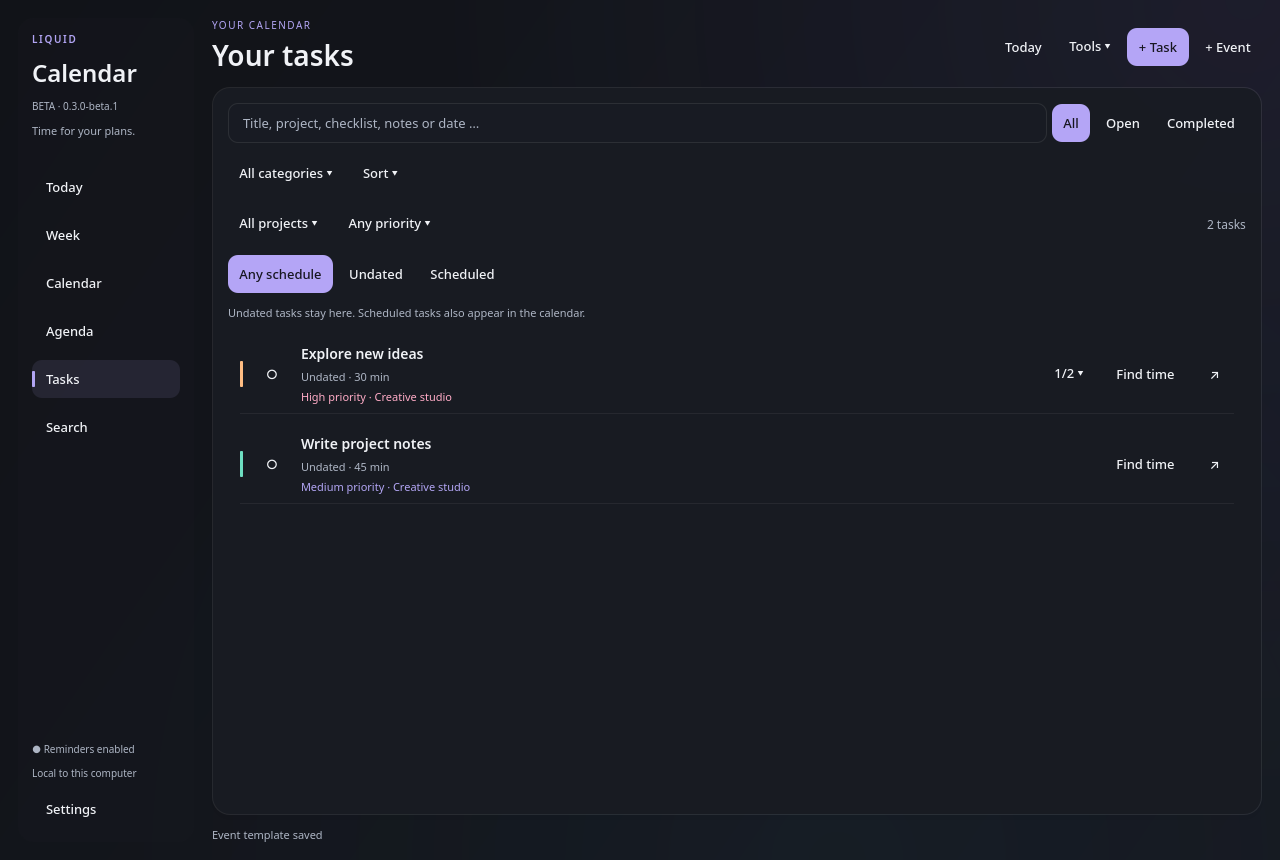
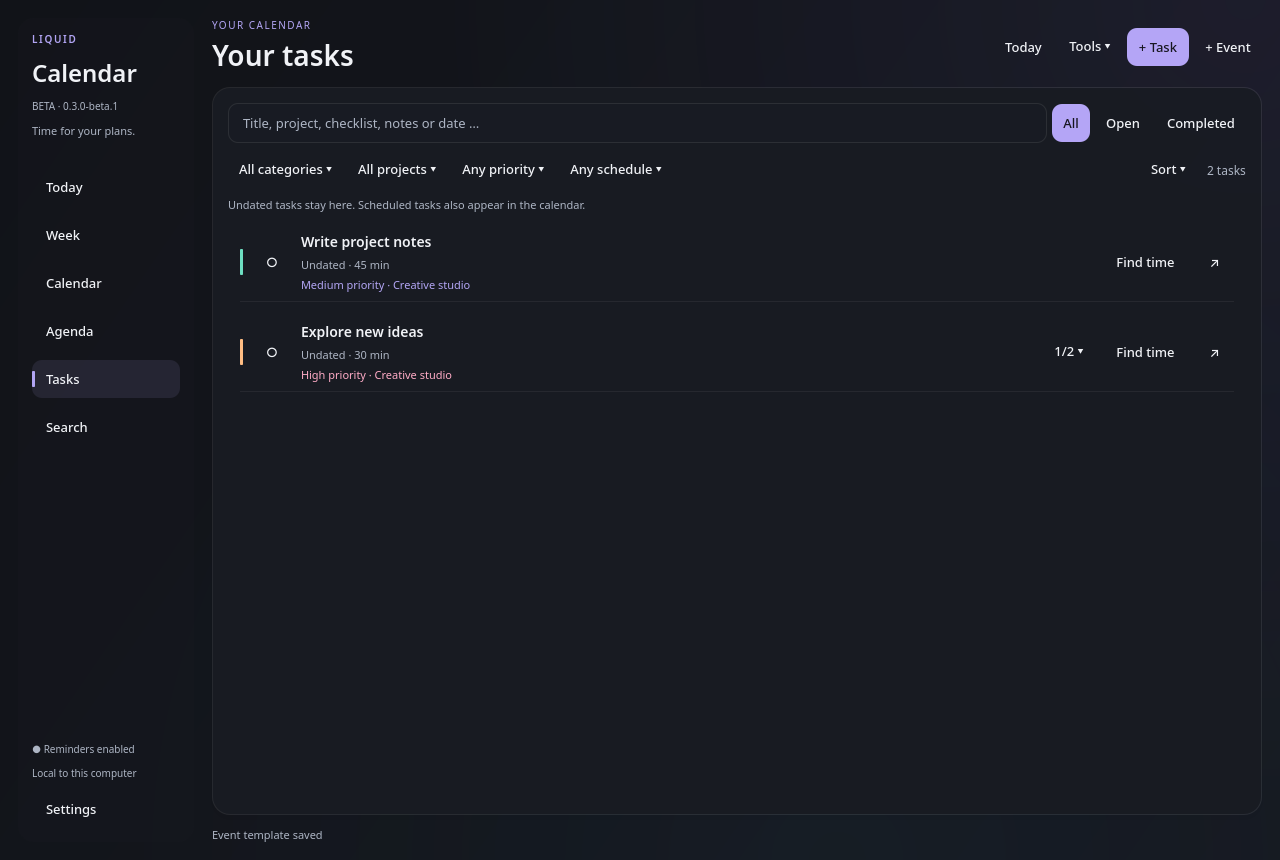
Compact task filters into an adaptive toolbar with schedule dropdown

diff --git a/qml/App.qml b/qml/App.qml
@@ -440,58 +440,59 @@ ApplicationWindow {
                 Surface {
                     anchors.fill:parent;visible:planner.view==="tasks"||planner.view==="search"
                     ColumnLayout {
-                        anchors.fill:parent;anchors.margins:16;spacing:12
+                        anchors.fill:parent;anchors.margins:16;spacing:8
                         RowLayout {
                             Layout.fillWidth:true
                             Field {id:globalSearch;Layout.fillWidth:true;placeholderText:"Title, project, checklist, notes or date …";maximumLength:200;text:planner.query;onTextEdited:planner.setQuery(text);Accessible.name:"Global search"}
-                                                        Action {text:"All";primary:planner.kind==="all"||planner.kind==="tasks";onClicked:planner.setFilter(planner.view==="tasks"?"tasks":"all",planner.category)}
+                            Action {text:"All";primary:planner.kind==="all"||planner.kind==="tasks";onClicked:planner.setFilter(planner.view==="tasks"?"tasks":"all",planner.category)}
                             Action {text:"Open";primary:planner.kind==="open";onClicked:planner.setFilter("open",planner.category)}
                             Action {text:"Completed";primary:planner.kind==="done";onClicked:planner.setFilter("done",planner.category)}
-                        }
-                        RowLayout {
-                            Layout.fillWidth:true;spacing:8
-                            Action {visible:planner.view==="search";text:"Events only";primary:planner.kind==="events";onClicked:planner.setFilter("events",planner.category)}
-                            Action {visible:planner.view==="search";text:"Tasks only";primary:planner.kind==="tasks";onClicked:planner.setFilter("tasks",planner.category)}
-                            Action {text:(["All categories","Personal","Work","Important","Leisure"])[planner.category+1]+" ▾";onClicked:categoryMenu.open()
-                                Menu {id:categoryMenu
-                                    Repeater {model:["All categories","Personal","Work","Important","Leisure"];delegate:MenuItem {required property int index;required property string modelData;text:modelData;onTriggered:planner.setFilter(planner.kind,index-1)}}
-                                }
-                            }
-                            Action {visible:planner.view==="tasks";text:"Sort ▾";onClicked:sortMenu.open()
-                                Menu {id:sortMenu
-                                    MenuItem {text:"Default";checkable:true;checked:planner.taskOrder==="default";onTriggered:planner.setTaskOrder("default")}
-                                    MenuItem {text:"Priority: high first";checkable:true;checked:planner.taskOrder==="priority";onTriggered:planner.setTaskOrder("priority")}
-                                    MenuItem {text:"Project";checkable:true;checked:planner.taskOrder==="project";onTriggered:planner.setTaskOrder("project")}
-                                    MenuItem {text:"Title A–Z";checkable:true;checked:planner.taskOrder==="title";onTriggered:planner.setTaskOrder("title")}
-                                    MenuItem {text:"Scheduled first";checkable:true;checked:planner.taskOrder==="planned";onTriggered:planner.setTaskOrder("planned")}
-                                    MenuItem {text:"Shortest duration first";checkable:true;checked:planner.taskOrder==="duration";onTriggered:planner.setTaskOrder("duration")}
-                                }
-                            }
-                            Item {Layout.fillWidth:true}
                             Action {visible:planner.projectFilter!=="*"||planner.priorityFilter>=0||planner.category>=0||planner.query.length>0||planner.planningFilter!=="all"||planner.taskOrder!=="default"||["all","tasks"].indexOf(planner.kind)<0;text:"Reset";onClicked:{planner.setTaskFilters("*",-1);planner.setTaskOrder("default");planner.setPlanningFilter("all");planner.setQuery("");planner.setFilter(planner.view==="tasks"?"tasks":"all",-1);}}
                         }
                         RowLayout {
-                            visible:planner.view==="tasks";Layout.fillWidth:true;spacing:8
-                            Action {Layout.maximumWidth:240;text:(planner.projectFilter==="*"?"All projects":planner.projectFilter||"No project")+" ▾";onClicked:taskProjectMenu.open()
-                                Menu {id:taskProjectMenu
-                                    MenuItem {text:"All projects";onTriggered:planner.setTaskFilters("*",planner.priorityFilter)}
-                                    MenuItem {text:"No project";onTriggered:planner.setTaskFilters("",planner.priorityFilter)}
-                                    Repeater {model:planner.projects;delegate:MenuItem {required property var modelData;text:modelData.name+" · "+modelData.done+"/"+modelData.total;onTriggered:planner.setTaskFilters(modelData.name,planner.priorityFilter)}}
+                            Layout.fillWidth:true;spacing:12
+                            Flow {
+                                id:taskFilterFlow;Layout.fillWidth:true;Layout.preferredHeight:childrenRect.height;spacing:4
+                                Action {primary:planner.category>=0;text:(["All categories","Personal","Work","Important","Leisure"])[planner.category+1]+" ▾";onClicked:categoryMenu.open()
+                                    Menu {id:categoryMenu
+                                        Repeater {model:["All categories","Personal","Work","Important","Leisure"];delegate:MenuItem {required property int index;required property string modelData;text:modelData;onTriggered:planner.setFilter(planner.kind,index-1)}}
+                                    }
                                 }
-                            }
-                            Action {text:(["Any priority","No priority","Low","Medium","High"])[planner.priorityFilter+1]+" ▾";onClicked:taskPriorityMenu.open()
-                                Menu {id:taskPriorityMenu
-                                    Repeater {model:["Any priority","No priority","Low","Medium","High"];delegate:MenuItem {required property int index;required property string modelData;text:modelData;onTriggered:planner.setTaskFilters(planner.projectFilter,index-1)}}
+                                Action {visible:planner.view==="tasks";width:Math.min(180,implicitWidth);primary:planner.projectFilter!=="*";text:(planner.projectFilter==="*"?"All projects":planner.projectFilter||"No project")+" ▾";onClicked:taskProjectMenu.open()
+                                    Menu {id:taskProjectMenu
+                                        MenuItem {text:"All projects";onTriggered:planner.setTaskFilters("*",planner.priorityFilter)}
+                                        MenuItem {text:"No project";onTriggered:planner.setTaskFilters("",planner.priorityFilter)}
+                                        MenuItem {visible:planner.projectFilter!=="*"&&planner.projectFilter!=="";text:"Edit selected project…";onTriggered:{renameProjectField.text=planner.projectFilter;projectPopup.open();}}
+                                        Repeater {model:planner.projects;delegate:MenuItem {required property var modelData;text:modelData.name+" · "+modelData.done+"/"+modelData.total;onTriggered:planner.setTaskFilters(modelData.name,planner.priorityFilter)}}
+                                    }
                                 }
+                                Action {visible:planner.view==="tasks";primary:planner.priorityFilter>=0;text:(["Any priority","No priority","Low","Medium","High"])[planner.priorityFilter+1]+" ▾";onClicked:taskPriorityMenu.open()
+                                    Menu {id:taskPriorityMenu
+                                        Repeater {model:["Any priority","No priority","Low","Medium","High"];delegate:MenuItem {required property int index;required property string modelData;text:modelData;onTriggered:planner.setTaskFilters(planner.projectFilter,index-1)}}
+                                    }
+                                }
+                                Action {visible:planner.view==="tasks";primary:planner.planningFilter!=="all";text:(["Any schedule","Undated","Scheduled"])[["all","undated","planned"].indexOf(planner.planningFilter)]+" ▾";onClicked:scheduleMenu.open()
+                                    ActionMenu {id:scheduleMenu;light:win.light
+                                        Repeater {model:[{id:"all",label:"Any schedule"},{id:"undated",label:"Undated"},{id:"planned",label:"Scheduled"}];delegate:ActionMenuItem {required property var modelData;light:win.light;text:modelData.label;onTriggered:planner.setPlanningFilter(modelData.id)}}
+                                    }
+                                }
+                                Action {visible:planner.view==="search";text:"Events only";primary:planner.kind==="events";onClicked:planner.setFilter("events",planner.category)}
+                                Action {visible:planner.view==="search";text:"Tasks only";primary:planner.kind==="tasks";onClicked:planner.setFilter("tasks",planner.category)}
                             }
-                            Action {visible:planner.projectFilter!=="*"&&planner.projectFilter!=="";text:"Edit project";onClicked:{renameProjectField.text=planner.projectFilter;projectPopup.open();}}
-                            Item {Layout.fillWidth:true}
-                            Label {text:planner.results.length+" tasks";color:win.muted;font.pixelSize:12}
-                        }
-                        RowLayout {visible:planner.view==="tasks";Layout.fillWidth:true
-                            Action {text:"Any schedule";primary:planner.planningFilter==="all";onClicked:planner.setPlanningFilter("all")}
-                            Action {text:"Undated";primary:planner.planningFilter==="undated";onClicked:planner.setPlanningFilter("undated")}
-                            Action {text:"Scheduled";primary:planner.planningFilter==="planned";onClicked:planner.setPlanningFilter("planned")}
+                            RowLayout {
+                                Layout.alignment:Qt.AlignTop;spacing:4
+                                Action {visible:planner.view==="tasks";text:"Sort ▾";onClicked:sortMenu.open()
+                                    Menu {id:sortMenu
+                                        MenuItem {text:"Default";checkable:true;checked:planner.taskOrder==="default";onTriggered:planner.setTaskOrder("default")}
+                                        MenuItem {text:"Priority: high first";checkable:true;checked:planner.taskOrder==="priority";onTriggered:planner.setTaskOrder("priority")}
+                                        MenuItem {text:"Project";checkable:true;checked:planner.taskOrder==="project";onTriggered:planner.setTaskOrder("project")}
+                                        MenuItem {text:"Title A–Z";checkable:true;checked:planner.taskOrder==="title";onTriggered:planner.setTaskOrder("title")}
+                                        MenuItem {text:"Scheduled first";checkable:true;checked:planner.taskOrder==="planned";onTriggered:planner.setTaskOrder("planned")}
+                                        MenuItem {text:"Shortest duration first";checkable:true;checked:planner.taskOrder==="duration";onTriggered:planner.setTaskOrder("duration")}
+                                    }
+                                }
+                                Label {text:planner.results.length+(planner.view==="tasks"?" tasks":" results");color:win.muted;font.pixelSize:12;leftPadding:6}
+                            }
                         }
                         RowLayout {
                             visible:planner.dateHints.length>0
